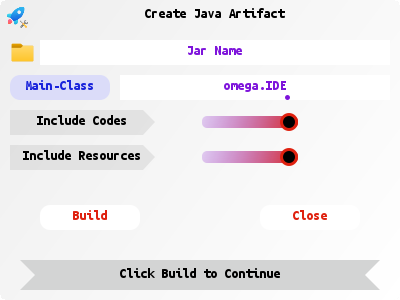
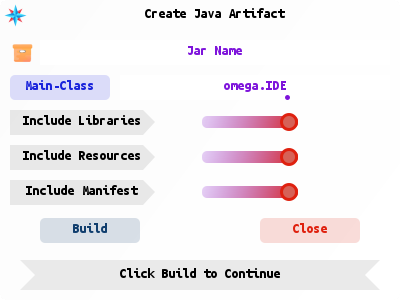
Updated jar-packager UI to v2.2!

diff --git a/src/omega/jarpackager/JarPackager.java b/src/omega/jarpackager/JarPackager.java
@@ -1,3 +1,21 @@
+/*
+ * JarPackager
+ * Copyright (C) 2022 Omega UI
+
+ * This program is free software: you can redistribute it and/or modify
+ * it under the terms of the GNU General Public License as published by
+ * the Free Software Foundation, either version 3 of the License, or
+ * (at your option) any later version.
+
+ * This program is distributed in the hope that it will be useful,
+ * but WITHOUT ANY WARRANTY; without even the implied warranty of
+ * MERCHANTABILITY or FITNESS FOR A PARTICULAR PURPOSE.  See the
+ * GNU General Public License for more details.
+
+ * You should have received a copy of the GNU General Public License
+ * along with this program.  If not, see <http://www.gnu.org/licenses/>.
+ */
+
 package omega.jarpackager;
 import java.awt.Frame;
 
@@ -80,7 +98,7 @@ public class JarPackager extends JDialog{
 		titleComp.attachDragger(this);
 		add(titleComp);
 
-		iconComp = new TextComp(IconManager.fluentrocketbuildImage, 25, 25, ALPHA, ALPHA, ALPHA, null);
+		iconComp = new TextComp(IconManager.fluentwindRoseImage, 25, 25, ALPHA, ALPHA, ALPHA, null);
 		iconComp.setBounds(0, 0, 30, 30);
 		iconComp.setClickable(false);
 		iconComp.setArc(0, 0);
@@ -91,7 +109,7 @@ public class JarPackager extends JDialog{
 		fs.setTitle("Select a Directory");
 		fs.setCurrentDirectory(new File(Screen.getProjectFile().getProjectPath() + File.separator + "out"));
 
-		dirComp = new TextComp(IconManager.fluentplainfolderImage, 25, 25, TOOLMENU_COLOR1_SHADE, ALPHA, ALPHA, ()->{
+		dirComp = new TextComp(IconManager.fluentpackageImage, 25, 25, TOOLMENU_COLOR1_SHADE, ALPHA, ALPHA, ()->{
 			LinkedList<File> files = fs.selectDirectories();
 			if(!files.isEmpty()){
 				dirComp.setToolTipText(files.getFirst().getAbsolutePath());
@@ -157,12 +175,12 @@ public class JarPackager extends JDialog{
 		buildEdgeComp.setLookLikeLabel(true);
 		add(buildEdgeComp);
 
-		buildComp = new TextComp("Build", TOOLMENU_COLOR2_SHADE, c2, TOOLMENU_COLOR2, this::build);
+		buildComp = new TextComp("Build", TOOLMENU_COLOR1_SHADE, TOOLMENU_COLOR5_SHADE, TOOLMENU_COLOR5, this::build);
 		buildComp.setBounds(40, getHeight() - 70 - 12, 100, 25);
 		buildComp.setFont(PX14);
 		add(buildComp);
 
-		closeComp = new TextComp("Close", TOOLMENU_COLOR2_SHADE, c2, TOOLMENU_COLOR2, ()->setVisible(false));
+		closeComp = new TextComp("Close", TOOLMENU_COLOR1_SHADE, TOOLMENU_COLOR2_SHADE, TOOLMENU_COLOR2, ()->setVisible(false));
 		closeComp.setBounds(getWidth() - 40 - 100, getHeight() - 70 - 12, 100, 25);
 		closeComp.setFont(PX14);
 		add(closeComp);

diff --git a/src/omega/jarpackager/JarPackagerPlugin.java b/src/omega/jarpackager/JarPackagerPlugin.java
@@ -1,3 +1,21 @@
+/*
+ * JarPackagerPlugin
+ * Copyright (C) 2022 Omega UI
+
+ * This program is free software: you can redistribute it and/or modify
+ * it under the terms of the GNU General Public License as published by
+ * the Free Software Foundation, either version 3 of the License, or
+ * (at your option) any later version.
+
+ * This program is distributed in the hope that it will be useful,
+ * but WITHOUT ANY WARRANTY; without even the implied warranty of
+ * MERCHANTABILITY or FITNESS FOR A PARTICULAR PURPOSE.  See the
+ * GNU General Public License for more details.
+
+ * You should have received a copy of the GNU General Public License
+ * along with this program.  If not, see <http://www.gnu.org/licenses/>.
+ */
+
 package omega.jarpackager;
 import omega.io.IconManager;
 
@@ -41,14 +59,14 @@ public class JarPackagerPlugin implements Plugin{
 	@Override
 	public boolean init() {
 		jarPackager = new JarPackager(Screen.getScreen());
-		item = new OPopupItem(Screen.getScreen().getToolMenu().toolsPopup, "Jar Packager", IconManager.fluentrocketbuildImage, ()->jarPackager.setVisible(true));
+		item = new OPopupItem(Screen.getScreen().getToolMenu().toolsPopup, "Jar Packager", IconManager.fluentwindRoseImage, ()->jarPackager.setVisible(true));
 		return true;
 	}
 	
 	@Override
 	public URL getImage() {
 		try{
-			return new URL("https://raw.githubusercontent.com/omegaui/omegaide/main/res/fluent-icons/icons8-rocket-build-64.png");
+			return new URL("https://raw.githubusercontent.com/omegaui/omegaide/main/res/fluent-icons/icons8-wind-rose-64.png");
 		}
 		catch(Exception e){
 			e.printStackTrace();
